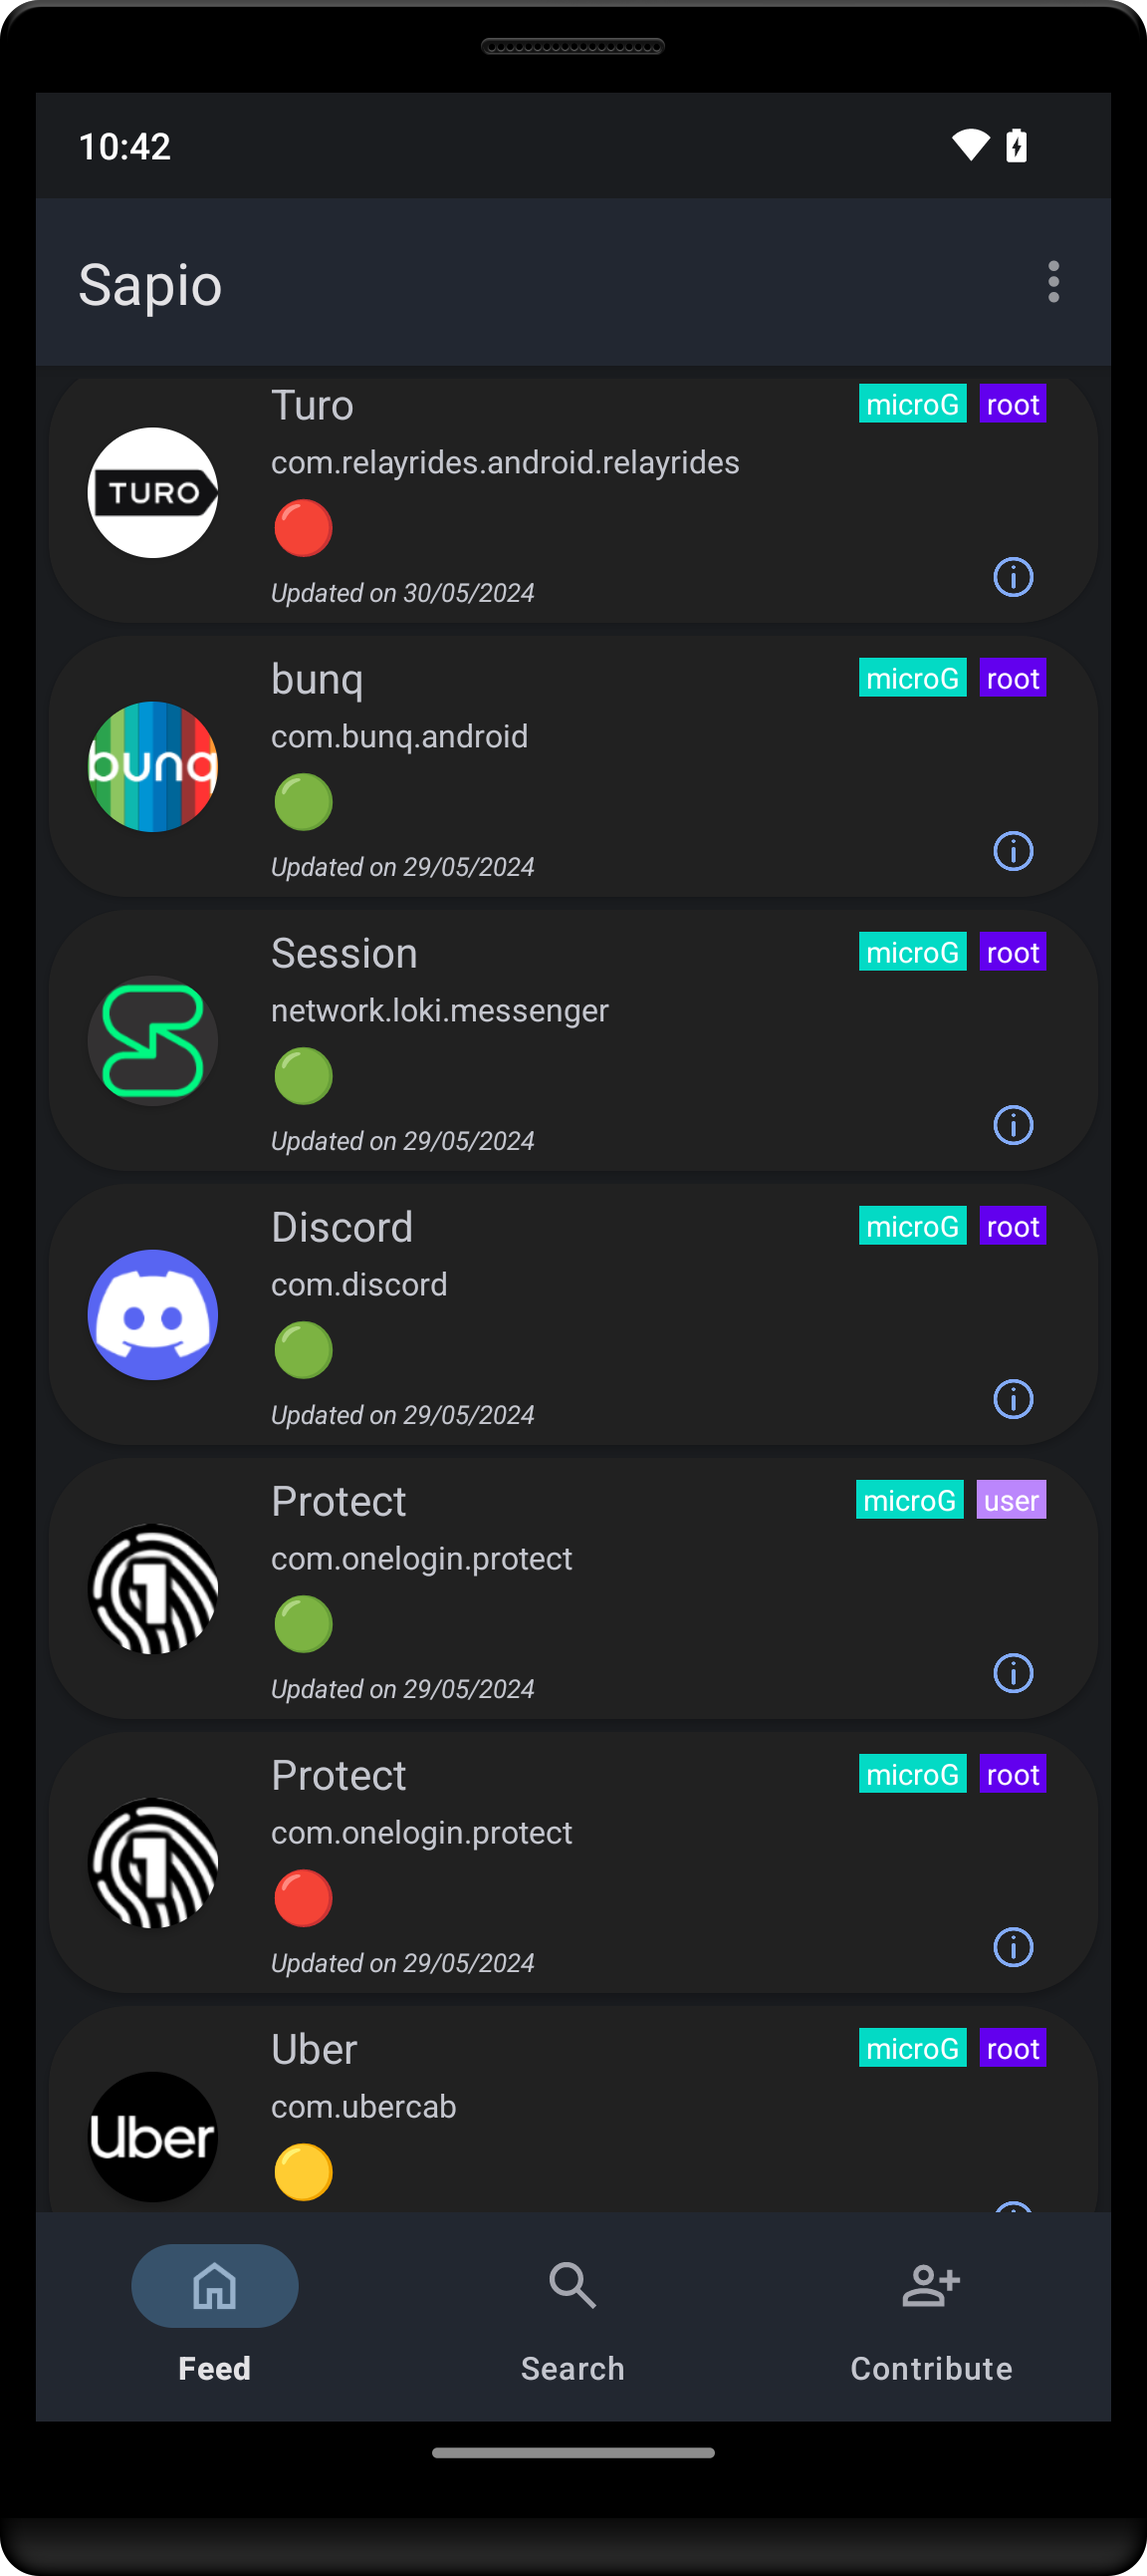
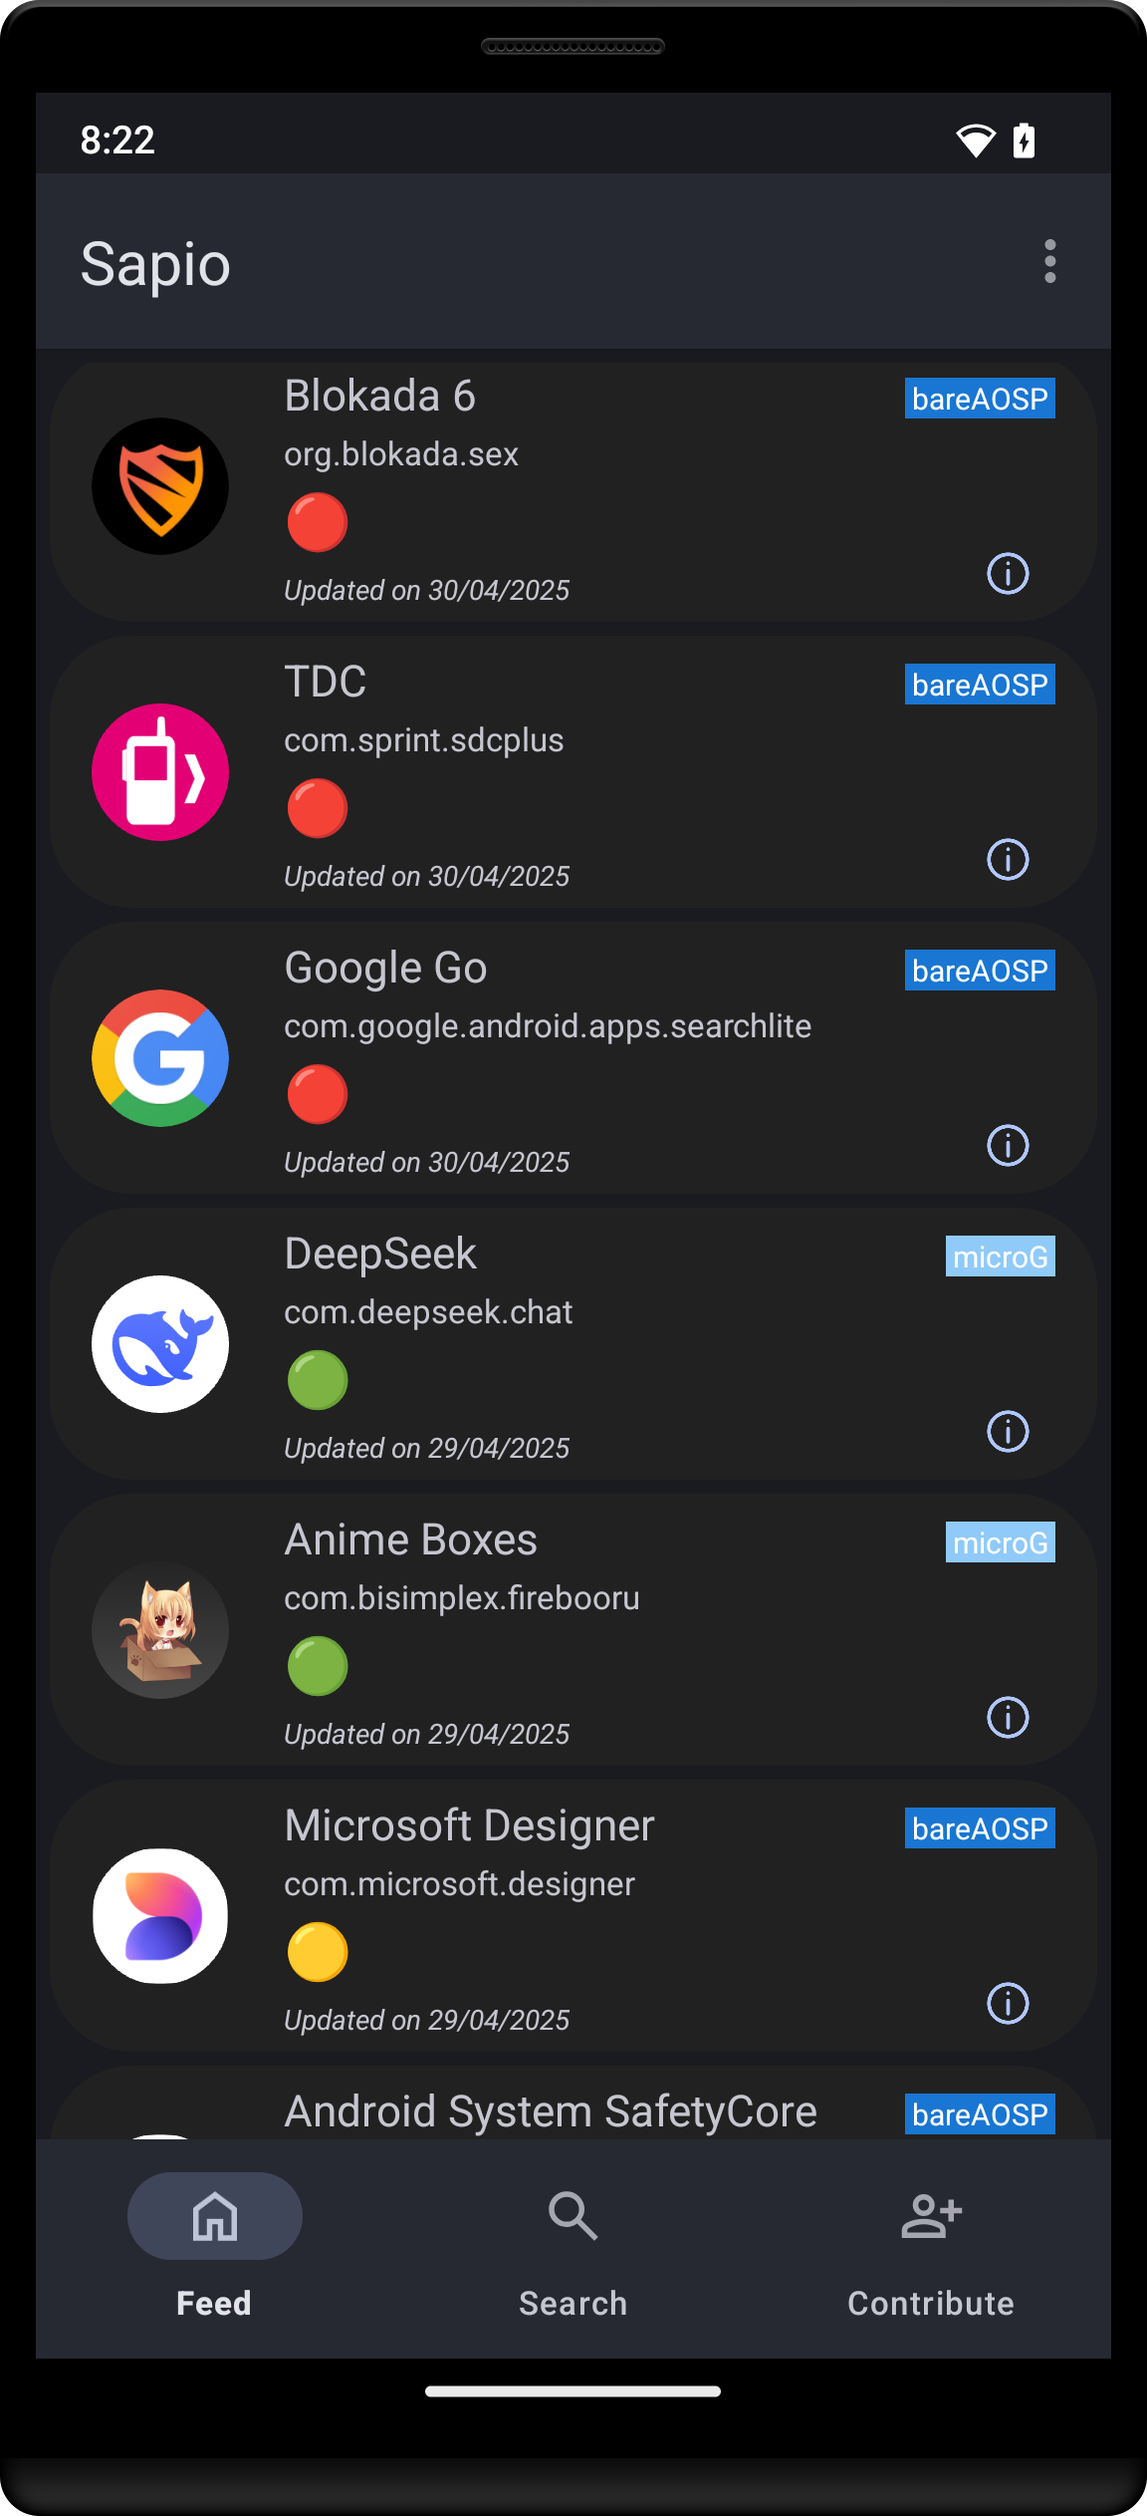
Change whole wording of environments

diff --git a/app/src/main/java/com/klee/sapio/ui/viewmodel/AppEvaluationsViewModel.kt b/app/src/main/java/com/klee/sapio/ui/viewmodel/AppEvaluationsViewModel.kt
@@ -5,29 +5,28 @@ import androidx.lifecycle.ViewModel
 import androidx.lifecycle.viewModelScope
 import com.klee.sapio.data.Evaluation
 import com.klee.sapio.data.Settings
-import com.klee.sapio.domain.FetchAppBareAospRootEvaluationUseCase
-import com.klee.sapio.domain.FetchAppBareAospUserEvaluationUseCase
-import com.klee.sapio.domain.FetchAppMicrogRootEvaluationUseCase
-import com.klee.sapio.domain.FetchAppMicrogUserEvaluationUseCase
+import com.klee.sapio.domain.FetchAppBareAospRiskyEvaluationUseCase
+import com.klee.sapio.domain.FetchAppBareAospSecureEvaluationUseCase
+import com.klee.sapio.domain.FetchAppMicrogRiskyEvaluationUseCase
+import com.klee.sapio.domain.FetchAppMicrogSecureEvaluationUseCase
 import com.klee.sapio.domain.FetchIconUrlUseCase
 import dagger.hilt.android.lifecycle.HiltViewModel
 import kotlinx.coroutines.Dispatchers
 import kotlinx.coroutines.launch
 import kotlinx.coroutines.withContext
-import okhttp3.Dispatcher
 import javax.inject.Inject
 
 @HiltViewModel
 class AppEvaluationsViewModel @Inject constructor() : ViewModel() {
 
     @Inject
-    lateinit var fetchAppMicrogUserEvaluationUseCase: FetchAppMicrogUserEvaluationUseCase
+    lateinit var fetchAppMicrogSecureEvaluationUseCase: FetchAppMicrogSecureEvaluationUseCase
     @Inject
-    lateinit var fetchAppMicrogRootEvaluationUseCase: FetchAppMicrogRootEvaluationUseCase
+    lateinit var fetchAppMicrogRiskyEvaluationUseCase: FetchAppMicrogRiskyEvaluationUseCase
     @Inject
-    lateinit var fetchAppBareAOspUserEvaluationUseCase: FetchAppBareAospUserEvaluationUseCase
+    lateinit var fetchAppBareAOspSecureEvaluationUseCase: FetchAppBareAospSecureEvaluationUseCase
     @Inject
-    lateinit var fetchAppBareAospRootEvaluationUseCase: FetchAppBareAospRootEvaluationUseCase
+    lateinit var fetchAppBareAospRiskyEvaluationUseCase: FetchAppBareAospRiskyEvaluationUseCase
     @Inject
     lateinit var fetchIconUrlUseCase: FetchIconUrlUseCase
     @Inject
@@ -43,7 +42,7 @@ class AppEvaluationsViewModel @Inject constructor() : ViewModel() {
         viewModelScope.launch {
             withContext(Dispatchers.IO) {
                 microgUserEvaluation.postValue(
-                    fetchAppMicrogUserEvaluationUseCase.invoke(
+                    fetchAppMicrogSecureEvaluationUseCase.invoke(
                         packageName
                     )
                 )
@@ -53,7 +52,7 @@ class AppEvaluationsViewModel @Inject constructor() : ViewModel() {
         viewModelScope.launch {
             withContext(Dispatchers.IO) {
                 bareAospUserEvaluation.postValue(
-                    fetchAppBareAOspUserEvaluationUseCase.invoke(packageName)
+                    fetchAppBareAOspSecureEvaluationUseCase.invoke(packageName)
                 )
             }
         }
@@ -62,7 +61,7 @@ class AppEvaluationsViewModel @Inject constructor() : ViewModel() {
             viewModelScope.launch {
                 withContext(Dispatchers.IO) {
                     microgRootEvaluation.postValue(
-                        fetchAppMicrogRootEvaluationUseCase.invoke(
+                        fetchAppMicrogRiskyEvaluationUseCase.invoke(
                             packageName
                         )
                     )
@@ -72,7 +71,7 @@ class AppEvaluationsViewModel @Inject constructor() : ViewModel() {
             viewModelScope.launch {
                 withContext(Dispatchers.IO) {
                     bareAsopRootEvaluation.postValue(
-                        fetchAppBareAospRootEvaluationUseCase.invoke(packageName)
+                        fetchAppBareAospRiskyEvaluationUseCase.invoke(packageName)
                     )
                 }
             }

diff --git a/app/src/main/java/com/klee/sapio/data/Models.kt b/app/src/main/java/com/klee/sapio/data/Models.kt
@@ -40,7 +40,7 @@ data class Evaluation(
     @JsonProperty("icon") var icon: Icon?,
     @JsonProperty("rating") val rating: Int,
     @JsonProperty("microg") val microg: Int,
-    @JsonProperty("rooted") val rooted: Int,
+    @JsonProperty("rooted") val secure: Int,
     @JsonProperty("updatedAt") val updatedAt: Date?,
     @JsonProperty("createdAt") val createdAt: Date?,
     @JsonProperty("publishedAt") val publishedAt: Date?,
@@ -140,8 +140,8 @@ object GmsType {
 }
 
 object UserType {
-    const val USER = 3
-    const val ROOT = 4
+    const val SECURE = 3
+    const val RISKY = 4
 }
 
 data class Label(val text: String, val color: Int) {
@@ -149,8 +149,8 @@ data class Label(val text: String, val color: Int) {
     companion object {
         const val MICROG = GmsType.MICROG
         const val BARE_AOSP = GmsType.BARE_AOSP
-        const val USER = UserType.USER
-        const val ROOTED = UserType.ROOT
+        const val SECURE = UserType.SECURE
+        const val RISKY = UserType.RISKY
 
         @RequiresApi(Build.VERSION_CODES.M)
         fun create(context: Context, label: Int): Label {
@@ -161,11 +161,11 @@ data class Label(val text: String, val color: Int) {
                 BARE_AOSP -> Label(
                     context.getString(R.string.bare_aosp_label), context.getColor(R.color.blue_700)
                 )
-                USER -> Label(
-                    context.getString(R.string.user_label), context.getColor(R.color.purple_200)
+                SECURE -> Label(
+                    context.getString(R.string.secure_label), context.getColor(R.color.purple_200)
                 )
-                ROOTED -> Label(
-                    context.getString(R.string.rooted_label), context.getColor(R.color.purple_700)
+                RISKY -> Label(
+                    context.getString(R.string.risky_label), context.getColor(R.color.purple_700)
                 )
                 else -> Label(" Empty label ", context.getColor(R.color.black))
             }

diff --git a/app/src/main/java/com/klee/sapio/data/EvaluationRepositoryImpl.kt b/app/src/main/java/com/klee/sapio/data/EvaluationRepositoryImpl.kt
@@ -32,35 +32,35 @@ class EvaluationRepositoryImpl @Inject constructor() :
         retrofitService.updateEvaluation(header, id)
     }
 
-    override suspend fun fetchMicrogUserEvaluation(appPackageName: String): Evaluation? {
+    override suspend fun fetchMicrogSecureEvaluation(appPackageName: String): Evaluation? {
         return retrofitService.fetchEvaluation(
             appPackageName,
             Label.MICROG,
-            Label.USER
+            Label.SECURE
         )
     }
 
-    override suspend fun fetchMicrogRootEvaluation(appPackageName: String): Evaluation? {
+    override suspend fun fetchMicrogRiskyEvaluation(appPackageName: String): Evaluation? {
         return retrofitService.fetchEvaluation(
             appPackageName,
             Label.MICROG,
-            Label.ROOTED
+            Label.RISKY
         )
     }
 
-    override suspend fun fetchBareAospUserEvaluation(appPackageName: String): Evaluation? {
+    override suspend fun fetchBareAospSecureEvaluation(appPackageName: String): Evaluation? {
         return retrofitService.fetchEvaluation(
             appPackageName,
             Label.BARE_AOSP,
-            Label.USER
+            Label.SECURE
         )
     }
 
-    override suspend fun fetchBareAospRootEvaluation(appPackageName: String): Evaluation? {
+    override suspend fun fetchBareAospRiskyEvaluation(appPackageName: String): Evaluation? {
         return retrofitService.fetchEvaluation(
             appPackageName,
             Label.BARE_AOSP,
-            Label.ROOTED
+            Label.RISKY
         )
     }
 

diff --git a/app/src/main/java/com/klee/sapio/ui/view/FeedAppAdapter.kt b/app/src/main/java/com/klee/sapio/ui/view/FeedAppAdapter.kt
@@ -64,18 +64,18 @@ class FeedAppAdapter(
 
         if (Build.VERSION.SDK_INT >= Build.VERSION_CODES.M) {
             val microgLabel = Label.create(mContext, app.microg)
-            val rootLabel = Label.create(mContext, app.rooted)
+            val secureLabel = Label.create(mContext, app.secure)
 
             element.microG.text = microgLabel.text
             element.microG.setBackgroundColor(microgLabel.color)
 
-            element.rooted.text = rootLabel.text
-            element.rooted.setBackgroundColor(rootLabel.color)
+            element.secure.text = secureLabel.text
+            element.secure.setBackgroundColor(secureLabel.color)
 
-            if (mSettings.getRootConfigurationLevel() == UserType.ROOT) {
-                element.rooted.visibility = View.VISIBLE
+            if (mSettings.getRootConfigurationLevel() == UserType.RISKY) {
+                element.secure.visibility = View.VISIBLE
             } else {
-                element.rooted.visibility = View.GONE
+                element.secure.visibility = View.GONE
             }
         }
 

diff --git a/app/src/main/java/com/klee/sapio/domain/EvaluationRepository.kt b/app/src/main/java/com/klee/sapio/domain/EvaluationRepository.kt
@@ -17,13 +17,13 @@ interface EvaluationRepository {
 
     suspend fun updateEvaluation(evaluation: UploadEvaluation, id: Int)
 
-    suspend fun fetchMicrogUserEvaluation(appPackageName: String): Evaluation?
+    suspend fun fetchMicrogSecureEvaluation(appPackageName: String): Evaluation?
 
-    suspend fun fetchMicrogRootEvaluation(appPackageName: String): Evaluation?
+    suspend fun fetchMicrogRiskyEvaluation(appPackageName: String): Evaluation?
 
-    suspend fun fetchBareAospUserEvaluation(appPackageName: String): Evaluation?
+    suspend fun fetchBareAospSecureEvaluation(appPackageName: String): Evaluation?
 
-    suspend fun fetchBareAospRootEvaluation(appPackageName: String): Evaluation?
+    suspend fun fetchBareAospRiskyEvaluation(appPackageName: String): Evaluation?
 
     suspend fun existingEvaluations(packageName: String): List<StrapiElement>
 

diff --git a/app/src/main/java/com/klee/sapio/ui/view/EvaluateFragment.kt b/app/src/main/java/com/klee/sapio/ui/view/EvaluateFragment.kt
@@ -50,9 +50,9 @@ class EvaluateFragment : Fragment() {
         mBinding.microgConfiguration.text = microgLabel.text
         mBinding.microgConfiguration.setBackgroundColor(microgLabel.color)
 
-        val isRootedLabel = Label.create(requireContext(), mDeviceConfiguration.isRooted())
-        mBinding.rootConfiguration.text = isRootedLabel.text
-        mBinding.rootConfiguration.setBackgroundColor(isRootedLabel.color)
+        val isRootedLabel = Label.create(requireContext(), mDeviceConfiguration.isRisky())
+        mBinding.secureConfiguration.text = isRootedLabel.text
+        mBinding.secureConfiguration.setBackgroundColor(isRootedLabel.color)
 
         mPackageName = arguments?.getString("package").orEmpty()
         mAppName = arguments?.getString("name").orEmpty()

diff --git a/app/src/main/java/com/klee/sapio/domain/EvaluateAppUseCase.kt b/app/src/main/java/com/klee/sapio/domain/EvaluateAppUseCase.kt
@@ -4,8 +4,6 @@ import com.klee.sapio.data.DeviceConfiguration
 import com.klee.sapio.data.InstalledApplication
 import com.klee.sapio.data.IconAnswer
 import com.klee.sapio.data.UploadEvaluation
-import com.klee.sapio.data.Evaluation
-import com.klee.sapio.ui.view.EvaluateFragment
 import kotlinx.coroutines.Dispatchers
 import kotlinx.coroutines.withContext
 import retrofit2.Response
@@ -68,7 +66,7 @@ class EvaluateAppUseCase @Inject constructor() {
             iconId,
             rating,
             mDeviceConfiguration.getGmsType(),
-            mDeviceConfiguration.isRooted()
+            mDeviceConfiguration.isRisky()
         )
 
         mEvaluationRepository.addEvaluation(newEvaluation)

diff --git a/app/src/main/java/com/klee/sapio/domain/FetchAppBareAospRiskyEvaluationUseCase.kt b/app/src/main/java/com/klee/sapio/domain/FetchAppBareAospRiskyEvaluationUseCase.kt
@@ -1,15 +1,14 @@
 package com.klee.sapio.domain
 
 import com.klee.sapio.data.Evaluation
-import com.klee.sapio.data.EvaluationRepositoryImpl
 import javax.inject.Inject
 
-class FetchAppBareAospRootEvaluationUseCase @Inject constructor() {
+class FetchAppBareAospRiskyEvaluationUseCase @Inject constructor() {
 
     @Inject
     lateinit var evaluationRepository: EvaluationRepository
 
     suspend operator fun invoke(packageName: String): Evaluation? {
-        return evaluationRepository.fetchBareAospRootEvaluation(packageName)
+        return evaluationRepository.fetchBareAospRiskyEvaluation(packageName)
     }
 }

diff --git a/app/src/main/java/com/klee/sapio/domain/FetchAppBareAospSecureEvaluationUseCase.kt b/app/src/main/java/com/klee/sapio/domain/FetchAppBareAospSecureEvaluationUseCase.kt
@@ -1,15 +1,14 @@
 package com.klee.sapio.domain
 
 import com.klee.sapio.data.Evaluation
-import com.klee.sapio.data.EvaluationRepositoryImpl
 import javax.inject.Inject
 
-class FetchAppMicrogUserEvaluationUseCase @Inject constructor() {
+class FetchAppBareAospSecureEvaluationUseCase @Inject constructor() {
 
     @Inject
     lateinit var evaluationRepository: EvaluationRepository
 
     suspend operator fun invoke(packageName: String): Evaluation? {
-        return evaluationRepository.fetchMicrogUserEvaluation(packageName)
+        return evaluationRepository.fetchBareAospSecureEvaluation(packageName)
     }
 }

diff --git a/app/src/main/java/com/klee/sapio/domain/FetchAppMicrogSecureEvaluationUseCase.kt b/app/src/main/java/com/klee/sapio/domain/FetchAppMicrogSecureEvaluationUseCase.kt
@@ -1,15 +1,14 @@
 package com.klee.sapio.domain
 
 import com.klee.sapio.data.Evaluation
-import com.klee.sapio.data.EvaluationRepositoryImpl
 import javax.inject.Inject
 
-class FetchAppBareAospUserEvaluationUseCase @Inject constructor() {
+class FetchAppMicrogSecureEvaluationUseCase @Inject constructor() {
 
     @Inject
     lateinit var evaluationRepository: EvaluationRepository
 
     suspend operator fun invoke(packageName: String): Evaluation? {
-        return evaluationRepository.fetchBareAospUserEvaluation(packageName)
+        return evaluationRepository.fetchMicrogSecureEvaluation(packageName)
     }
 }

diff --git a/app/src/main/java/com/klee/sapio/domain/FetchAppMicrogRiskyEvaluationUseCase.kt b/app/src/main/java/com/klee/sapio/domain/FetchAppMicrogRiskyEvaluationUseCase.kt
@@ -1,15 +1,14 @@
 package com.klee.sapio.domain
 
 import com.klee.sapio.data.Evaluation
-import com.klee.sapio.data.EvaluationRepositoryImpl
 import javax.inject.Inject
 
-class FetchAppMicrogRootEvaluationUseCase @Inject constructor() {
+class FetchAppMicrogRiskyEvaluationUseCase @Inject constructor() {
 
     @Inject
     lateinit var evaluationRepository: EvaluationRepository
 
     suspend operator fun invoke(packageName: String): Evaluation? {
-        return evaluationRepository.fetchMicrogRootEvaluation(packageName)
+        return evaluationRepository.fetchMicrogRiskyEvaluation(packageName)
     }
 }

diff --git a/app/src/main/java/com/klee/sapio/ui/view/EvaluationsActivity.kt b/app/src/main/java/com/klee/sapio/ui/view/EvaluationsActivity.kt
@@ -133,11 +133,11 @@ class EvaluationsActivity : AppCompatActivity() {
     private fun handleRootConfigurationSetting() {
         val shouldShow = settings.isRootConfigurationEnabled()
         with(mBinding) {
-            rooted.isVisible = shouldShow
+            secure.isVisible = shouldShow
             microgRoot.isVisible = shouldShow
             bareAospRoot.isVisible = shouldShow
             empty.isVisible = shouldShow
-            user.isVisible = shouldShow
+            risky.isVisible = shouldShow
         }
     }
 
